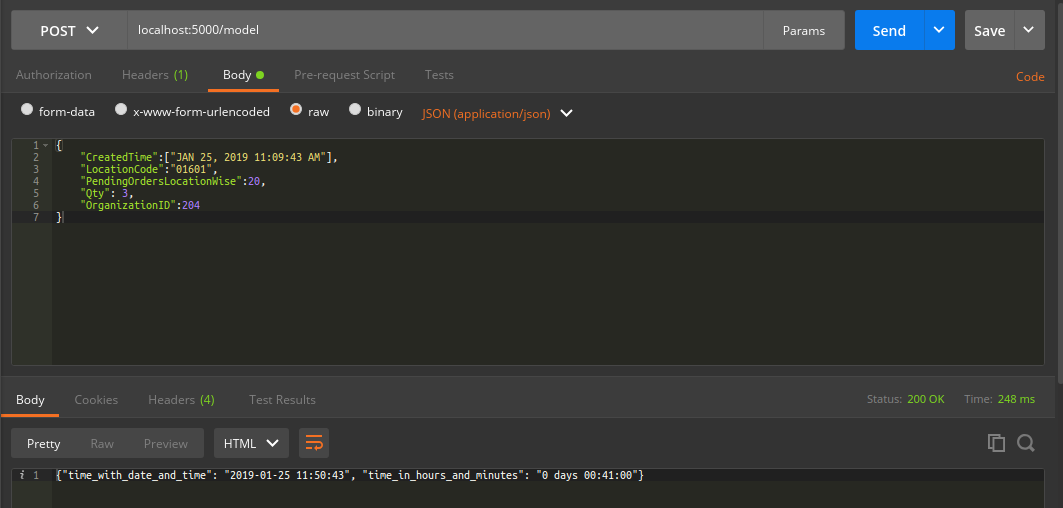
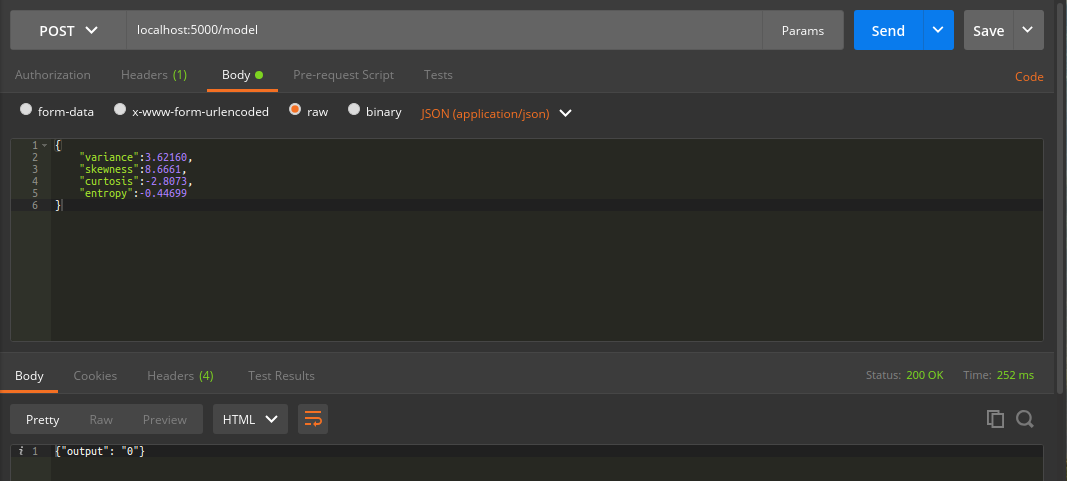
adding new model and change the inputs

diff --git a/server/webapp/views/common.py b/server/webapp/views/common.py
@@ -3,7 +3,6 @@
 from sklearn.externals import joblib
 from flask import Response, request
 from webapp import app
-import pandas as pd
 import numpy as np
 import datetime
 import json
@@ -19,36 +18,16 @@ def model():
     print(path)
     if request.method == "POST":
         ## Recieve input in Json format which is coming from POSTMAN request
-        json_array = request.get_json()
+        data = request.get_json()
         ## Convert json into pandas dataframe
-        df = pd.DataFrame.from_dict(json_array)
-        ## Now it's time to set the feature as we set during the model
-        df['CreatedTime'] = pd.to_datetime(df['CreatedTime'])
-        print(df['CreatedTime'])
-        timestamp_into_int = df['CreatedTime'].values.astype(int)
-        location_code = df[['LocationCode', 'PendingOrdersLocationWise', 'Qty']].values
+        print (np.array([data['variance'],data['skewness'],data['curtosis'],data['entropy']]))
         ## Create numpy array of inputs
-        X = np.insert(location_code, 1,timestamp_into_int , axis=1)
+        X = np.array([[data['variance'],data['skewness'],data['curtosis'],data['entropy']]])
         ## Load the saved model
-        model = joblib.load(path+'/model1_dt.sav')
-        ## Getting created time to add the predicted time in to it.
-        time = df.iloc[0]['CreatedTime']
+        model = joblib.load(path+'/banknote_trained_model.sav')
         ## Predicting the output
         predict_output = model.predict(X)
-        ## Convert output into real minutes
-        minutes = np.floor(np.multiply(np.subtract(np.multiply(predict_output,24), 
-            np.floor(np.multiply(predict_output,24))),60))
-        Organization_ID = df['OrganizationID']
-        print(Organization_ID)
-        hours = str(predict_output[0]).split('.')[0]
-        minutes = str(minutes[0]).split('.')[0] 
-
-        total_time = time + datetime.timedelta(hours=int(hours) , minutes=int(minutes))
-        hour_min_days = total_time - time
-        ## Setting up the json format for sending output in json 
-        t1={ 
-            'time_in_hours_and_minutes':str(hour_min_days),
-            'time_with_date_and_time':str(total_time)
-        }
-        response = Response(json.dumps(t1))
+        ## Set response
+        print(predict_output)
+        response = Response(json.dumps({'output':str(predict_output[0])}))
         return response
